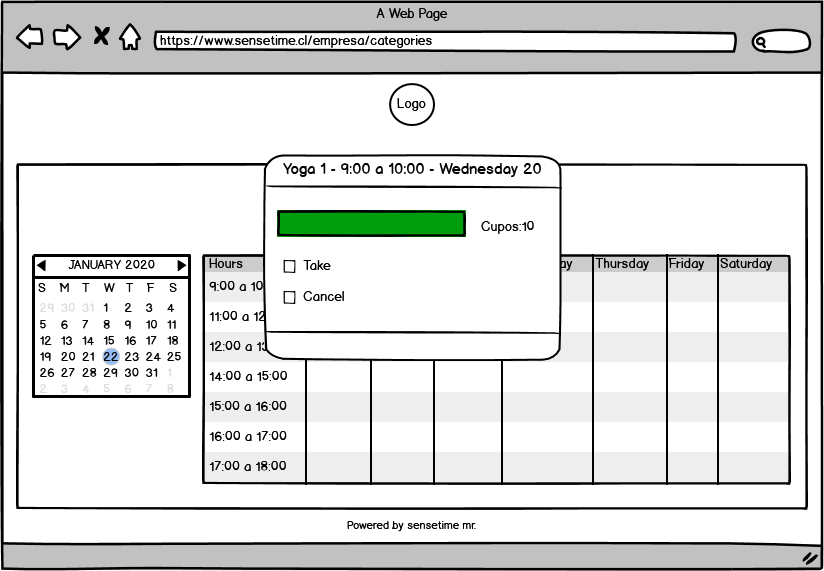
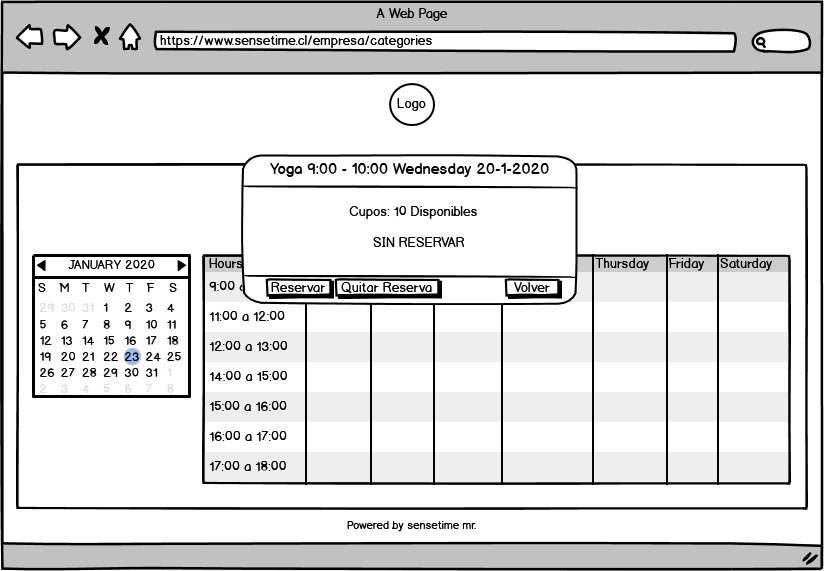
correccionCalendar

Changed region(s): [[0.2731, 0.268, 0.7282, 0.655], [0.1214, 0.5954, 0.182, 0.655]]

diff --git a/src/views/Calendar.js b/src/views/Calendar.js
@@ -8,7 +8,7 @@ const Calendar = props => {
     return (
         <div className="container">
             <div className="row">
-                <div className="col-md-12 d-flex justify-content-center mt-5">
+                <div className="col-md-12 d-flex justify-content-center mt-3">
                     <Navbar />
                 </div>
             </div>
@@ -39,14 +39,14 @@ const Calendar = props => {
                     </select>
                 </div>
             </div>
-
             <div className="row">
-                <div className="col-md-12 d-flex justify-content-center mt-5">
-                    <h5>Yoga 1 Calendar from 1 january to january</h5>
+                <div className="col-md-12 text-center mt-2">
+                    <h6 className="text-muted d-block">Yoga sede Las Condes </h6>
+                    <h6 className="text-muted d-block">Calendario del 01-01-2020 al 07-01-2020</h6>
                 </div>
             </div>
             <div className="row">
-                <div className="col-md-12 mt-5 d-flex justify-content-center">
+                <div className="col-md-12 mt-2 d-flex justify-content-center">
                     <img src={asdasd} width="1200" alt="" />
                 </div>
                 <div className="col-md-12 text-center">
